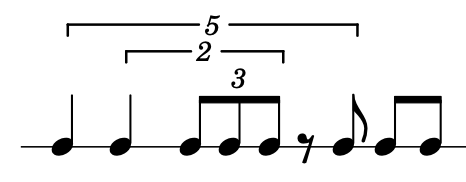
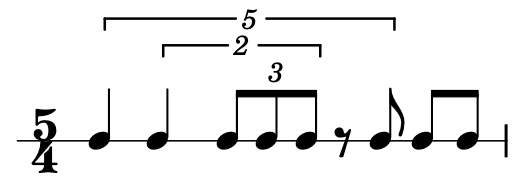
i

Changed region(s): [[0.03, 0.0275, 1.0, 0.9066]]

diff --git a/examples/README.md b/examples/README.md
@@ -4,7 +4,6 @@
 \score {
   {
     \new RhythmicStaff {
-      \once \override Staff.TimeSignature #'stencil = ##f
 	    \time 4/4
 	    c4 c8 c c16 c c8 c4
     }
@@ -21,7 +20,6 @@
 \score {
   {
     \new RhythmicStaff {
-      \once \override Staff.TimeSignature #'stencil = ##f
 	    \time 5/4
 	    \tuplet 5/4 { c4 \tuplet 2/3 { c \tuplet 3/2 { c8 c c } } r c } c c
     }

diff --git a/README.md b/README.md
@@ -13,8 +13,6 @@ to the hyper complex.
 
 NTN is the brainchild of Luc St-Louis.
 
-2) ![notation example](example_1.png)
-
 ## Example 1
 
 In this example, animal words are placed in time.
